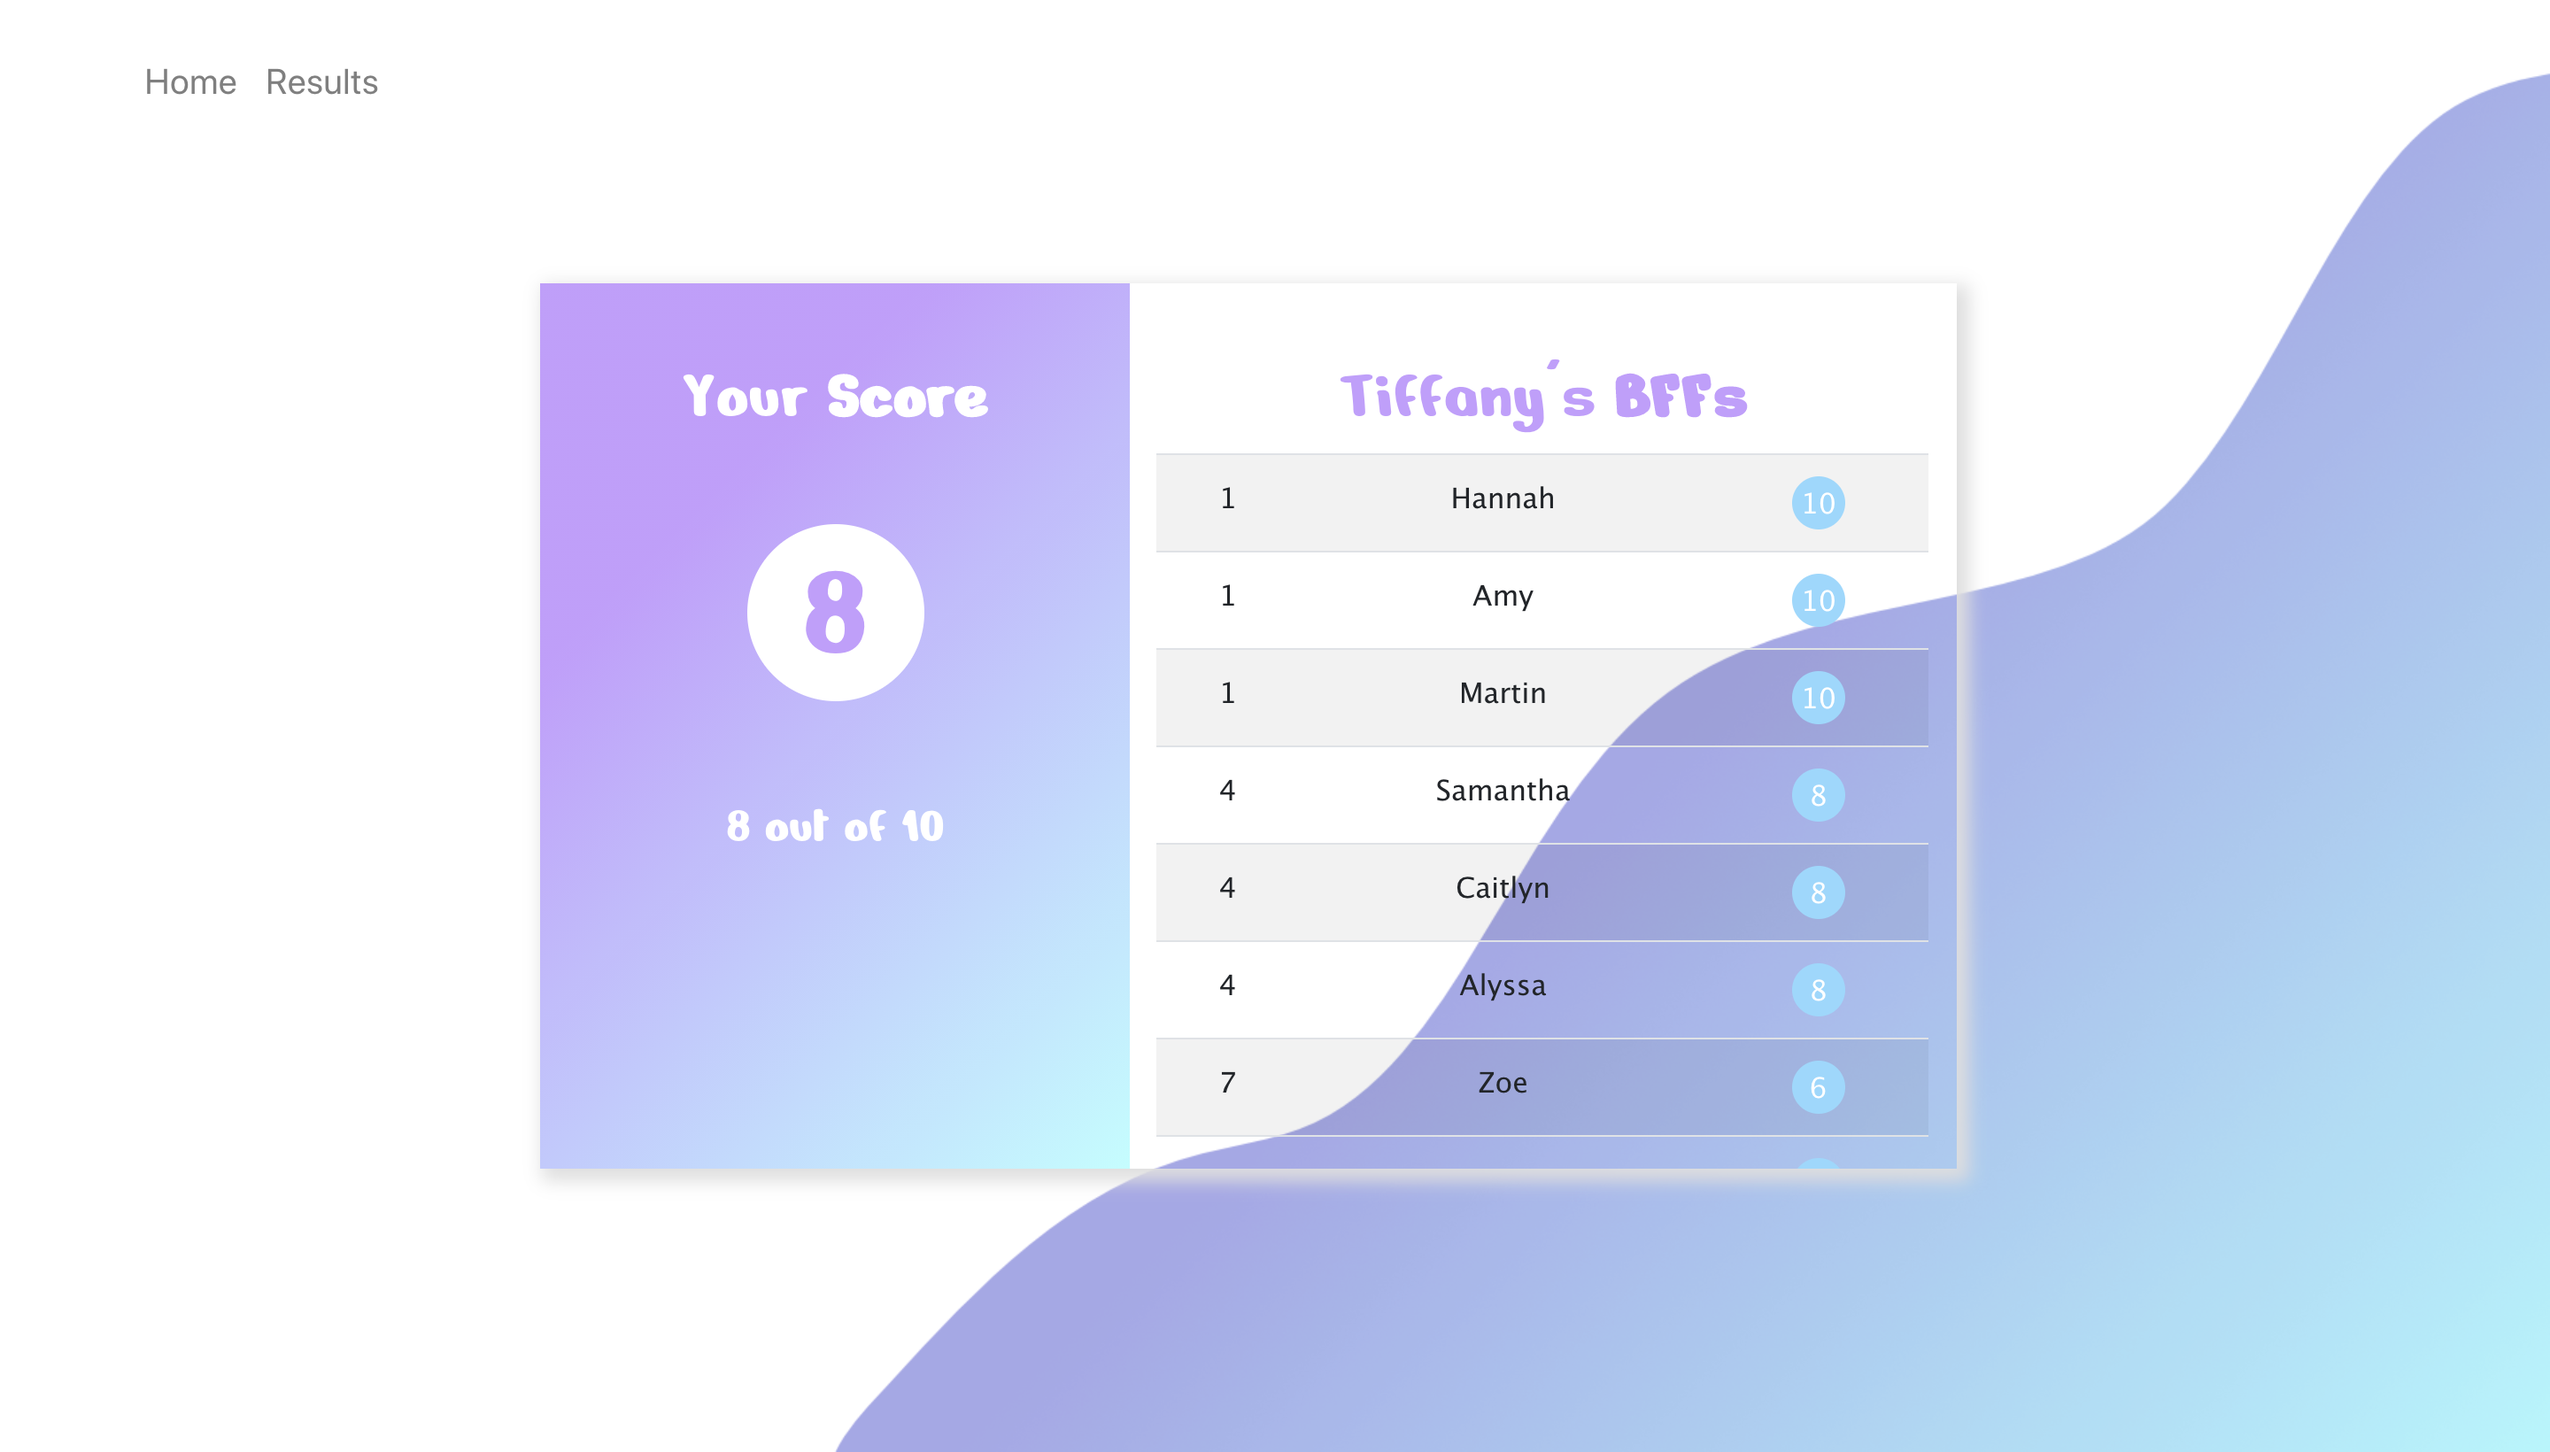
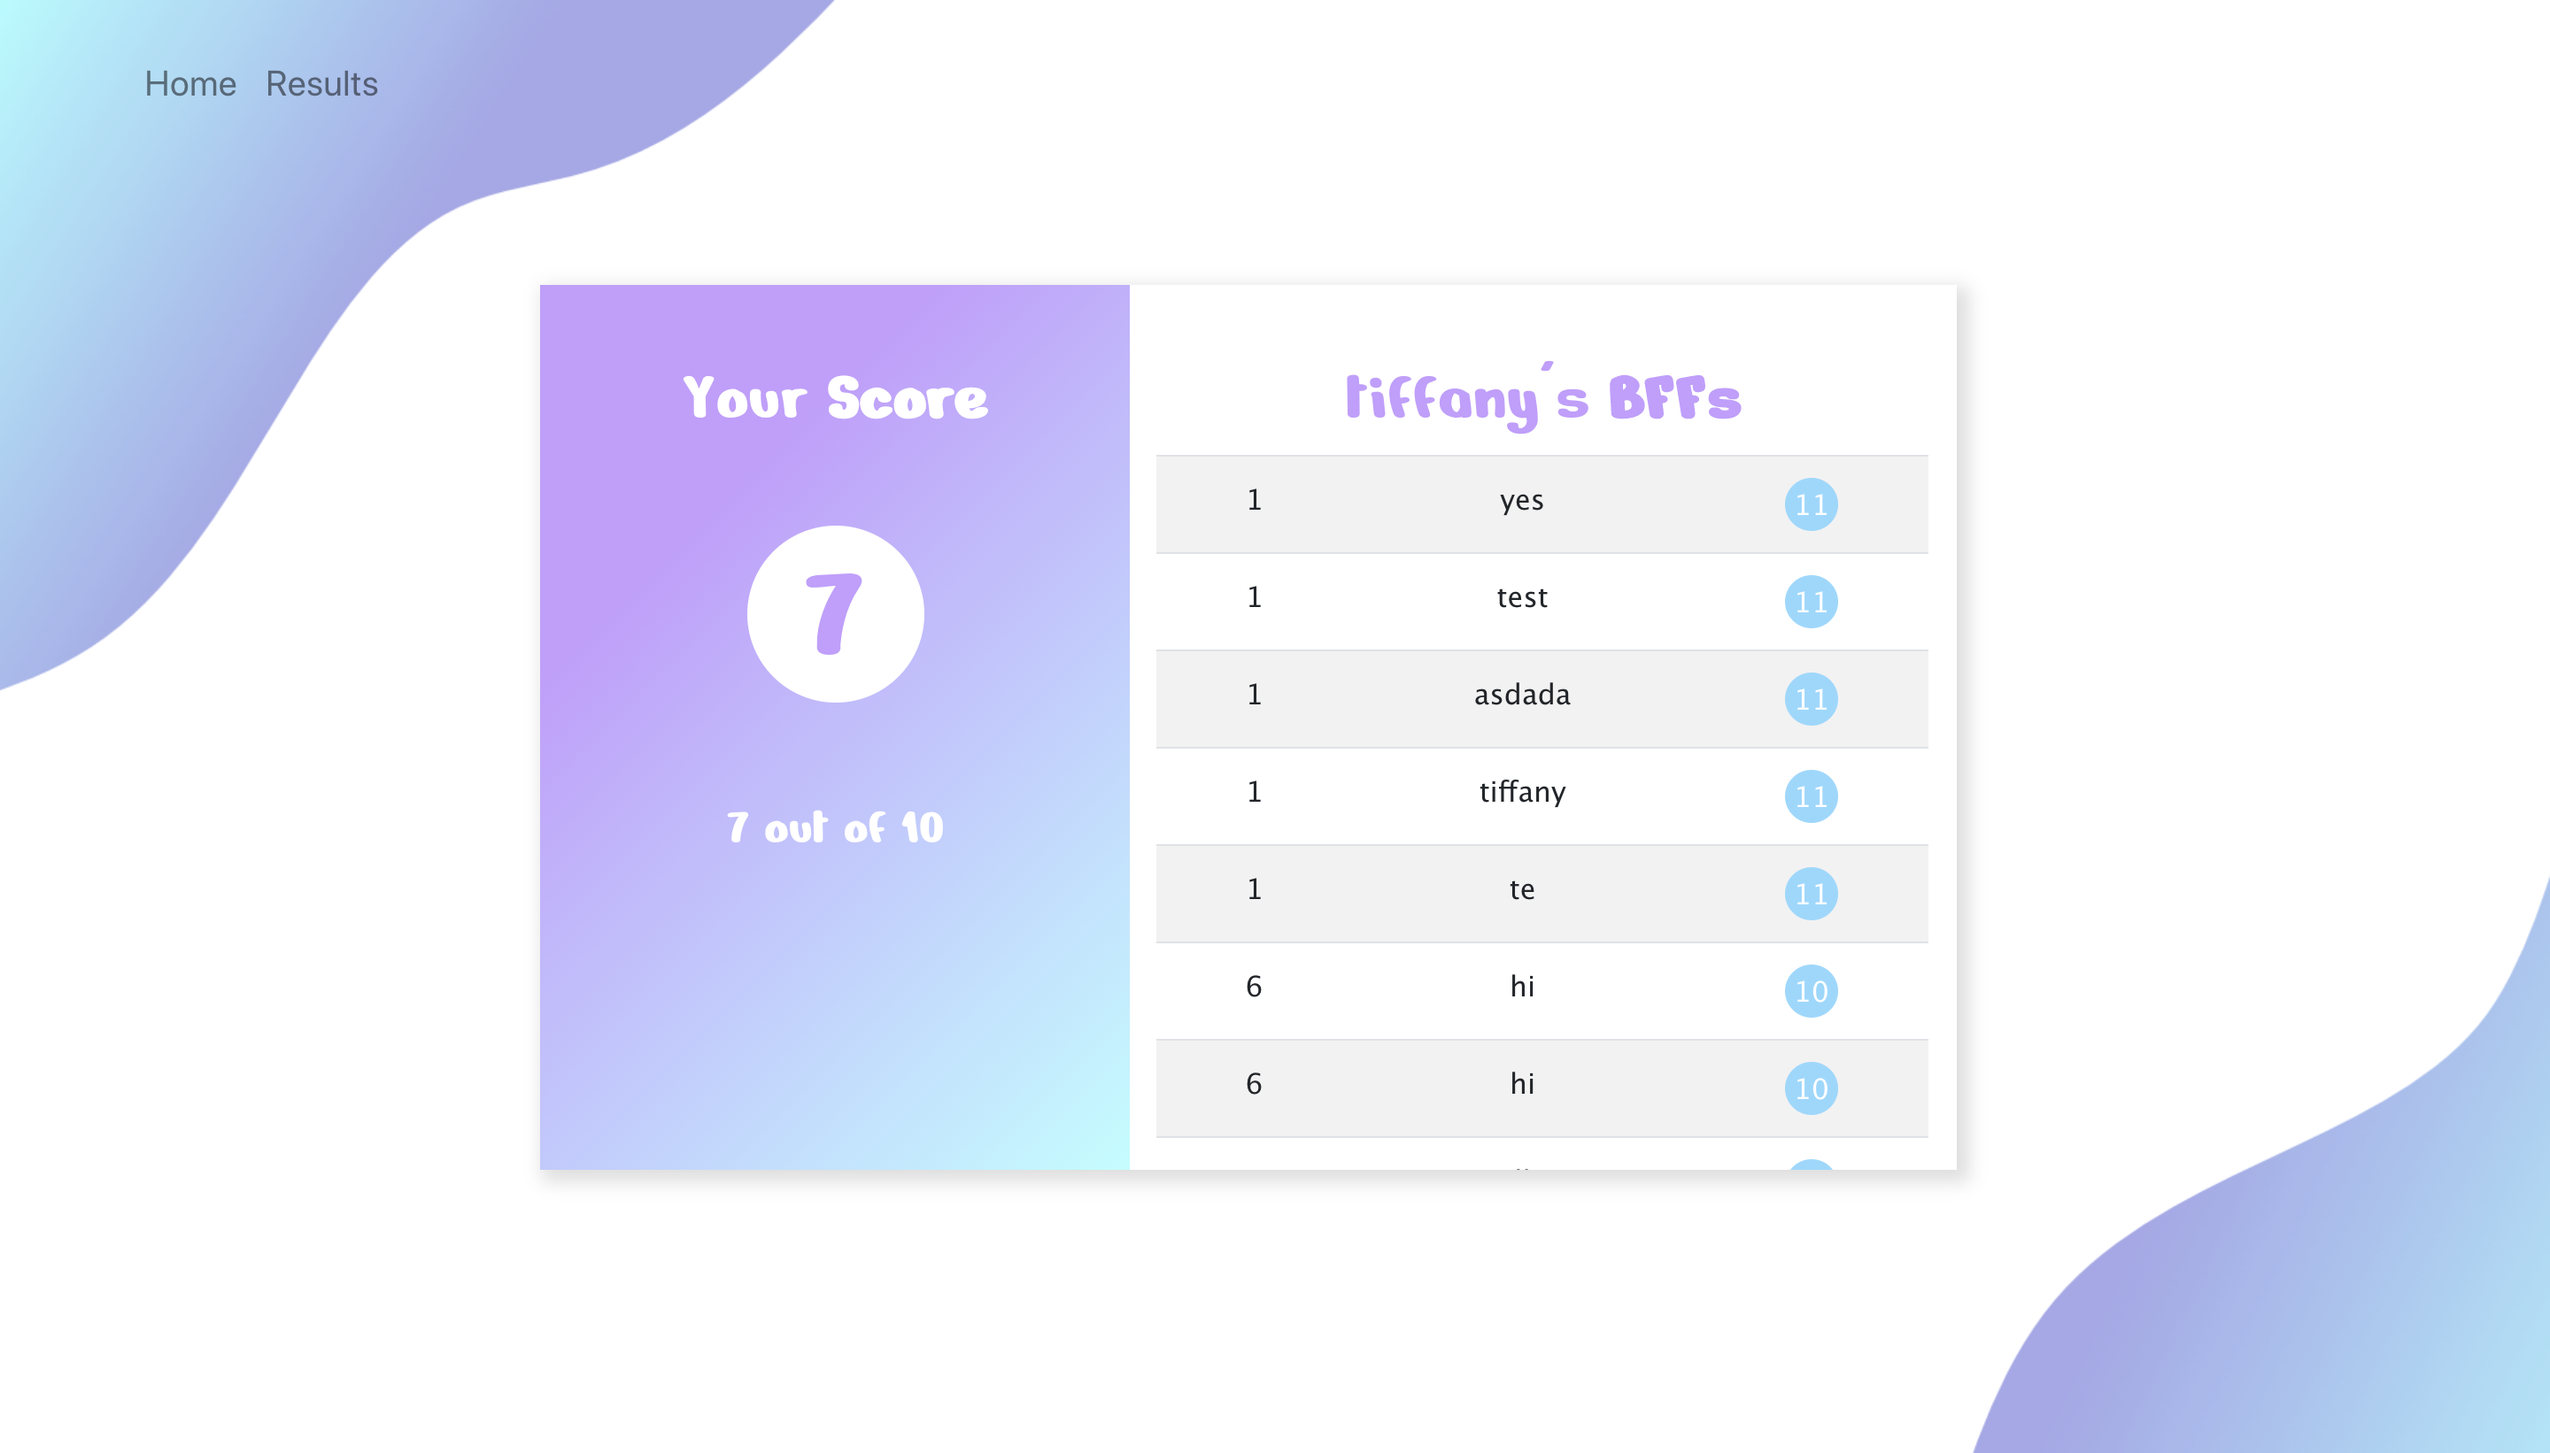
readme

diff --git a/client/src/components/Results/results.css b/client/src/components/Results/results.css
@@ -1,5 +1,5 @@
 .for-background {
-    background:  url('../../images/gradient_only.png') no-repeat center center /cover;
+    background:  url('../../images/gradient_only_3.png') no-repeat center center /cover;
     height: 100vh;
 }
 
